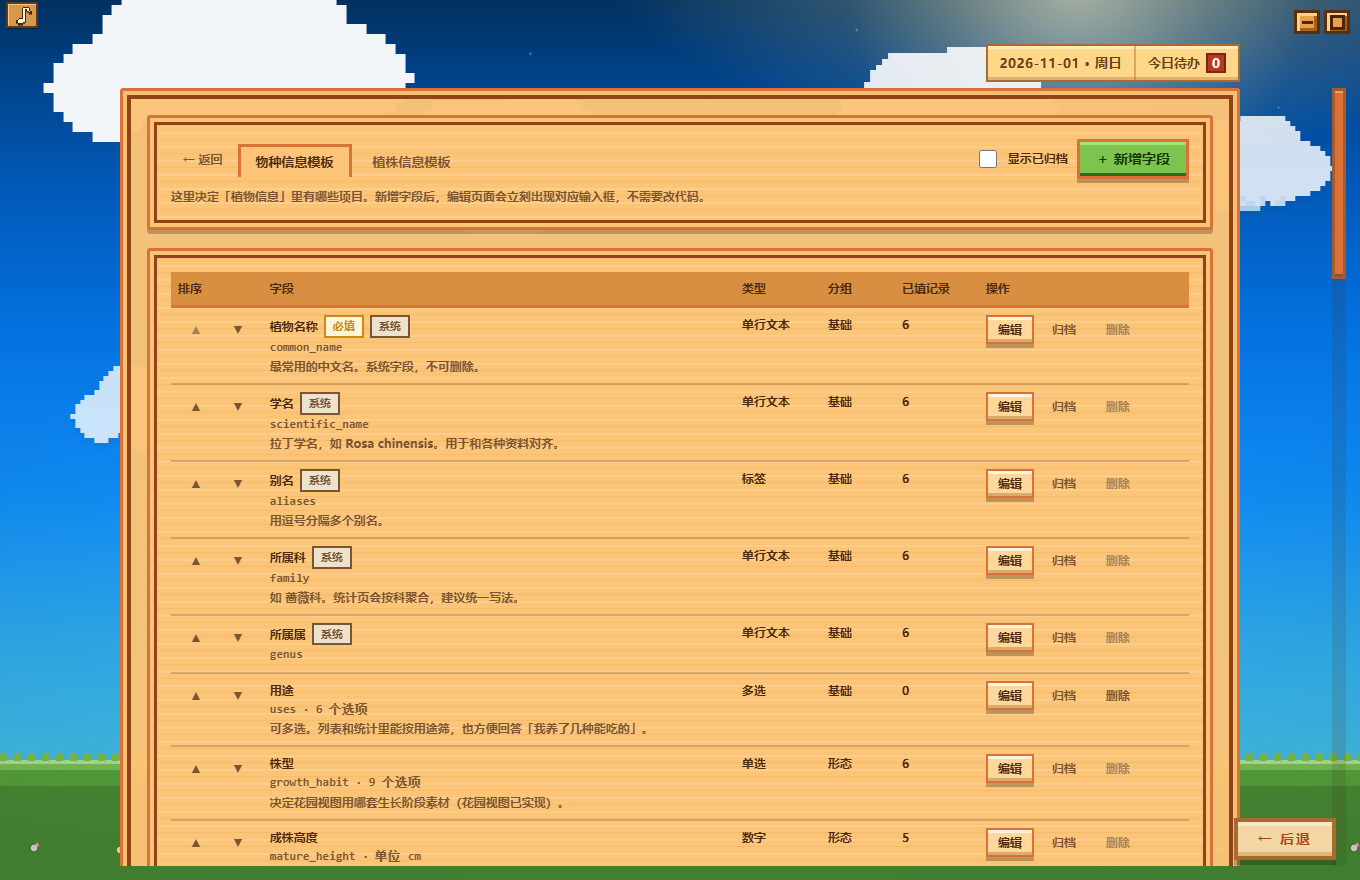
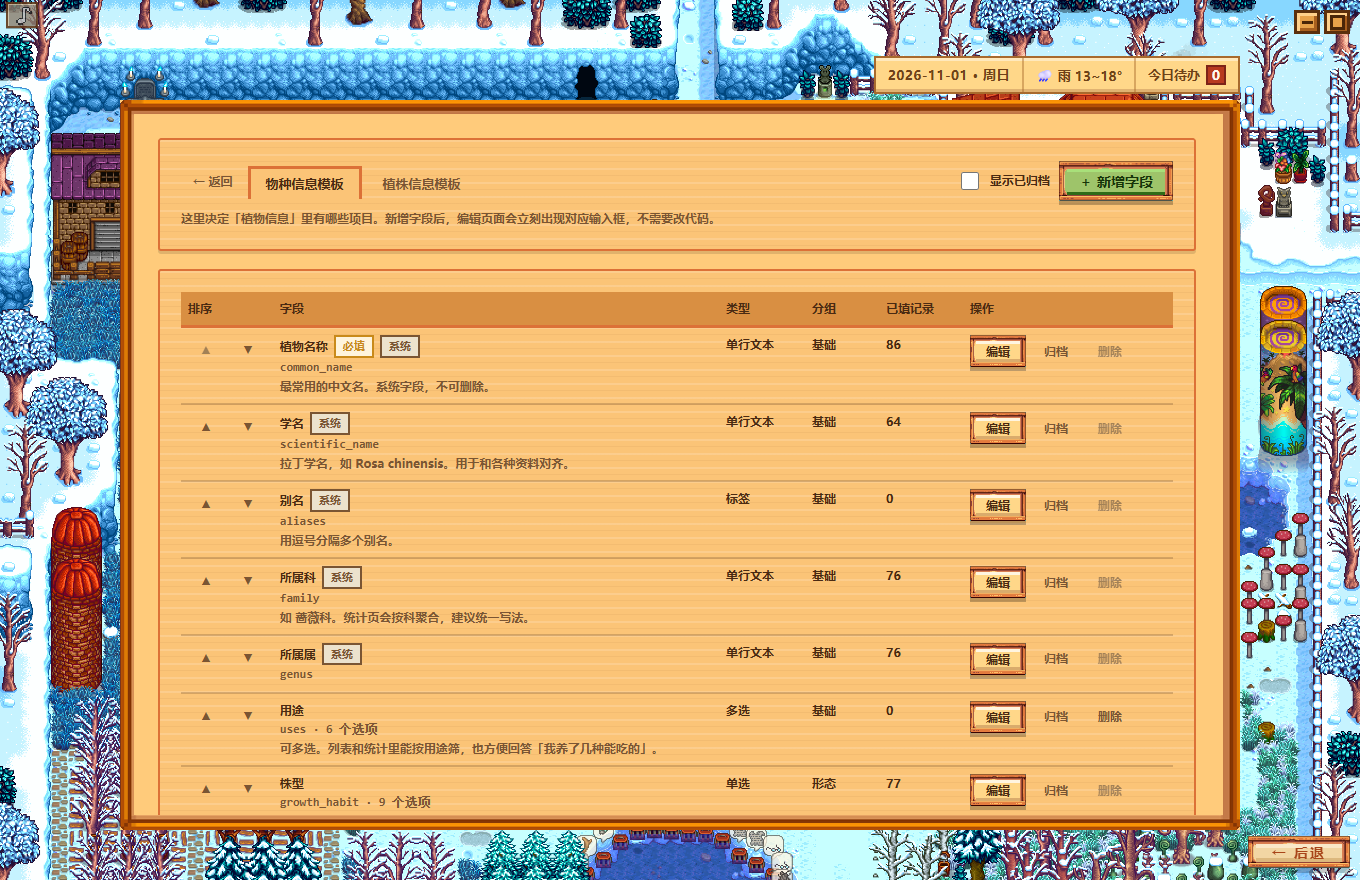
docs(readme): 截图换成真实皮肤版（作者本机）
- 8 张全部重拍：首页 / 花园 / 物种库 / 信息模板 / 设置 / 今日 / 养护计划 / 种草清单
- 皮肤与背景是作者私有素材（textures/ 已 gitignore），README 注明 clone 后是默认外观，
  并给出 seed-demo 造演示数据的命令
- 移除默认外观的 analysis 截图（该页在作者库里还没有已保存的分析）
- 顺带：皮肤日志补记 backgrounds / icons 数量，便于排查背景不显示

diff --git a/src/main/ipc/index.ts b/src/main/ipc/index.ts
@@ -635,7 +635,13 @@ function registerAppIpc(): void {
         seen.add(file)
         backgrounds.push(url)
       }
-      logStartup('皮肤 theme.json', { dir, slots: Object.keys(slots), slices })
+      logStartup('皮肤 theme.json', {
+        dir,
+        slots: Object.keys(slots),
+        slices,
+        backgrounds: backgrounds.length,
+        icons: Object.keys(icons).length
+      })
       return { slots, slices, backgrounds, icons }
     }
 

diff --git a/README.md b/README.md
@@ -10,14 +10,15 @@
 |---|---|---|
 | ![我的花园](docs/screenshot-garden.png) | ![物种库](docs/screenshot-species.png) | ![信息模板](docs/screenshot-templates.png) |
 
-| 今日（按植物分组 + 本月规则提醒） | 养护计划（月历 + 时间窗底色） | 种草清单 |
+| 今日（天气 + 本月规则提醒 + 按植物分组） | 养护计划（月历 + 时间窗底色） | 种草清单 |
 |---|---|---|
 | ![今日](docs/screenshot-today.png) | ![养护计划](docs/screenshot-plans.png) | ![种草清单](docs/screenshot-wishlist.png) |
 
-![AI 适配分析](docs/screenshot-analysis.png)
-
-> 以上截图由应用自身的 `--screenshot` 开关生成（见下文），数据来自 `scripts/seed-demo.mjs`，
-> 全部使用**默认外观**（不含任何私有皮肤 / 背景素材），也不含真实用户数据。
+> 截图由应用自身的 `--screenshot` 开关生成。
+> **皮肤 / 背景素材是作者本机的私有素材，不随仓库分发**（`textures/` 在 `.gitignore` 里），
+> 所以直接 clone 下来跑会是默认外观；数据也是作者自己的植株，不是演示库。
+> 想造一份演示数据看界面：`node scripts/seed-demo.mjs .cache/demo`，
+> 再 `electron . --data-dir=.cache/demo`。
 
 > 名称 `Sproutbook` 是**暂定代号**，与任何商业游戏无关。仓库内不含任何第三方游戏素材。
 
